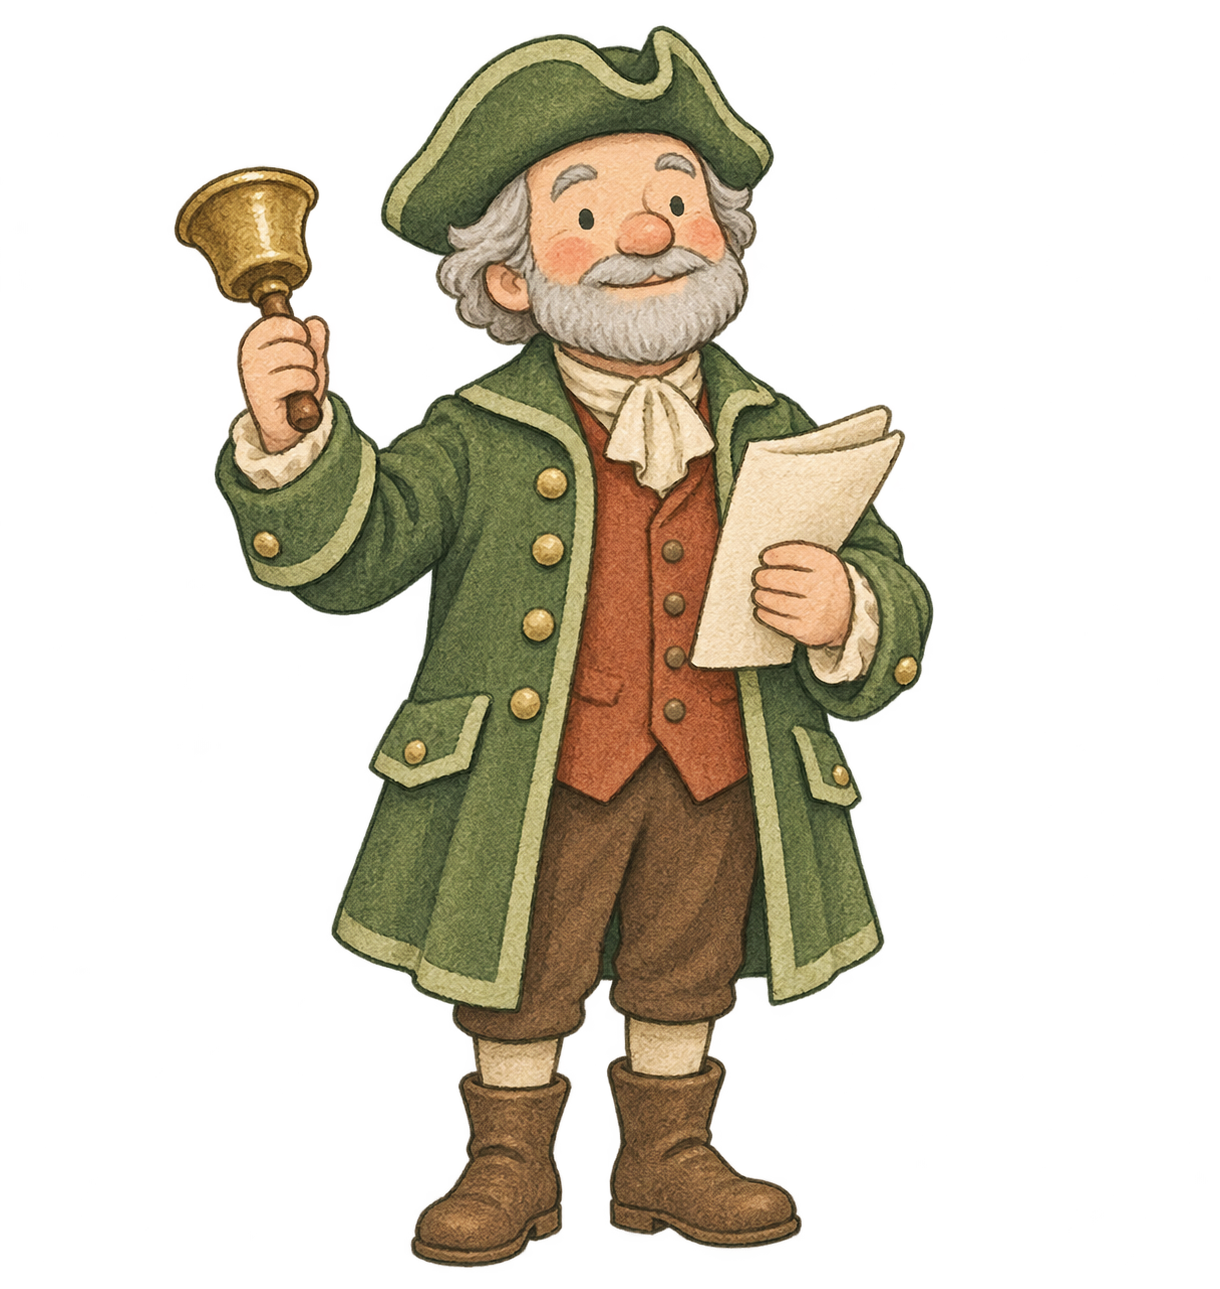
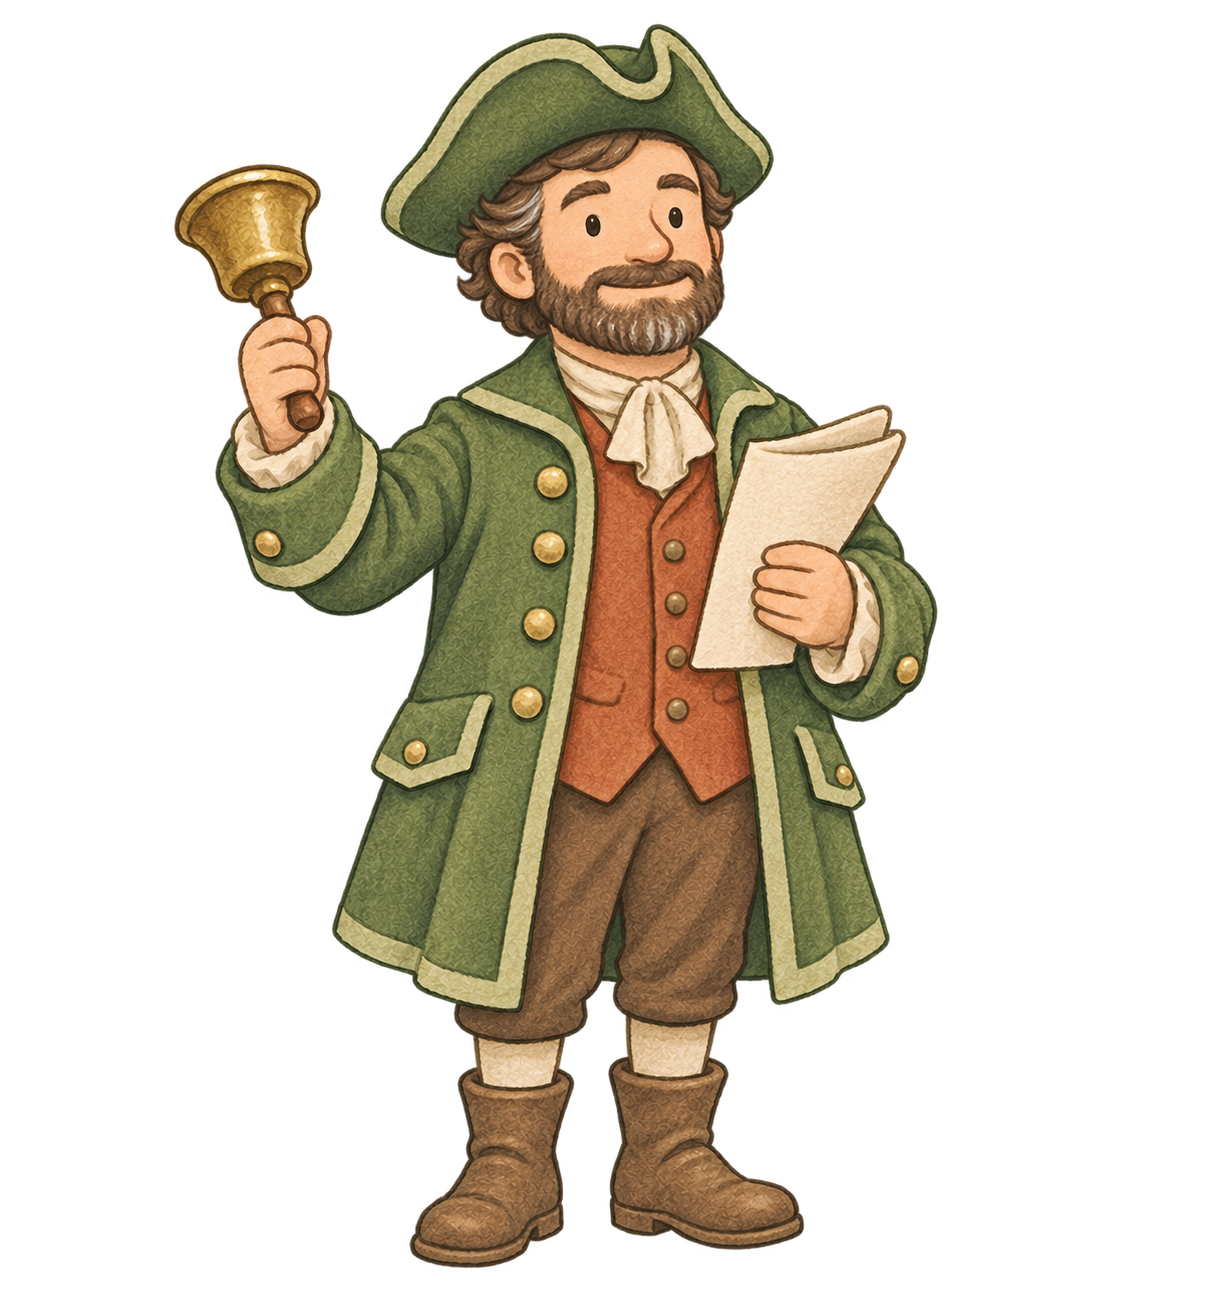
Refine town crier mascot with a natural complexion

Changed region(s): [[0.1246, 0.0, 0.7787, 0.993]]

diff --git a/internal/reader/mascot_test.go b/internal/reader/mascot_test.go
@@ -20,9 +20,29 @@ func TestMascotIsEmbeddedAndTransparent(t *testing.T) {
 	if bounds.Dx() < 256 || bounds.Dy() < 256 {
 		t.Fatal("mascot source is too small")
 	}
-	_, _, _, alpha := img.At(bounds.Min.X, bounds.Min.Y).RGBA()
-	if alpha != 0 {
-		t.Fatal("mascot needs a transparent background")
+	visible := 0
+	var painted image.Rectangle
+	for y := bounds.Min.Y; y < bounds.Max.Y; y++ {
+		for x := bounds.Min.X; x < bounds.Max.X; x++ {
+			_, _, _, alpha := img.At(x, y).RGBA()
+			// Ignore edge noise below 1% opacity when measuring the figure.
+			if alpha > 0x0202 {
+				visible++
+				pixel := image.Rect(x, y, x+1, y+1)
+				if painted.Empty() {
+					painted = pixel
+				} else {
+					painted = painted.Union(pixel)
+				}
+			}
+		}
+	}
+	area := bounds.Dx() * bounds.Dy()
+	if visible < area/20 || visible > area*19/20 {
+		t.Fatal("mascot must contain a visible character and a transparent background")
+	}
+	if painted.Min.X <= bounds.Min.X || painted.Min.Y <= bounds.Min.Y || painted.Max.X >= bounds.Max.X || painted.Max.Y >= bounds.Max.Y {
+		t.Fatal("mascot needs transparent padding on every edge so the figure is not cropped")
 	}
 }
 func TestComfylibStylesAndDemoBanner(t *testing.T) {
